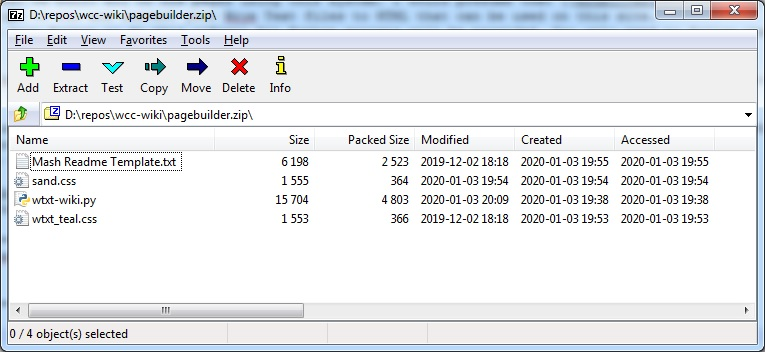
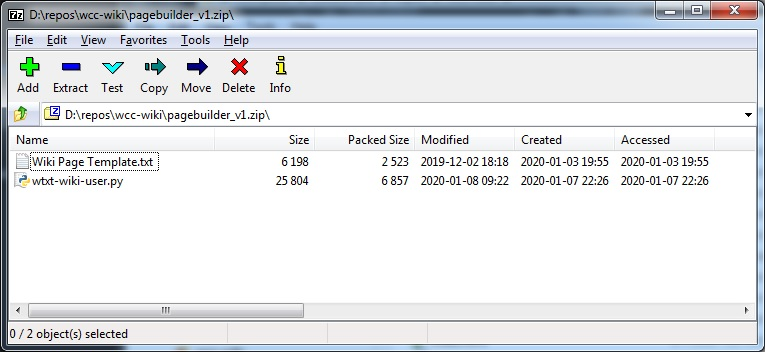
Updated section ten to clarify more

diff --git a/10-contribute.html b/10-contribute.html
@@ -23,7 +23,7 @@ title: Contributing
         </ul>
     </div>
 </div>
-<section>
+<div>
 <h2 class="header2" id="Intent">Intent:</h2>
 <p class="list-1">&bull;&nbsp; Do you have Wrye Bash related material that you would like to submit to this site? Are HTML and css style sheets over your head? The files and options provided will allow you to edit a simple text file that I will convert into content for the Wiki.</p>
 <p class=empty>&nbsp;</p>
@@ -49,6 +49,7 @@ title: Contributing
 <p class="list-2">&bull;&nbsp; <a href="#TableofContents">Table of Contents</a></p>
 <p class="list-2">&bull;&nbsp; <a href="#Bullets">Bullets</a></p>
 <p class="list-2">&bull;&nbsp; <a href="#Styles">Styles</a></p>
+<p class="list-2">&bull;&nbsp; <a href="#HeaderRule">Header Rule</a></p>
 <p class="list-2">&bull;&nbsp; <a href="#Links">Links</a></p>
 <p class="list-2">&bull;&nbsp; <a href="#TextColors">Text Colors</a></p>
 <p class="list-2">&bull;&nbsp; <a href="#LinkColors">Link Colors</a></p>
@@ -74,22 +75,22 @@ title: Contributing
 <p class="list-1">&bull;&nbsp; <a  href="pagebuilder_v1.zip">pagebuilder_v1 Download Link.zip</a></p>
 <p class=empty>&nbsp;</p>
 <h2 id="ExampleTemplate">Example Template</h2>
-<p>As part of the pagebuilder archive you have <code>Mash Readme Template.txt</code>. This will be the file you will modify as desired for the wiki content you wish to present. I will convert it into usable HTML after you are done and you may update the content and submit the changes.</p>
+<p>As part of the pagebuilder archive you have <code>Wiki Page Template.txt</code>. This will be the file you will modify as desired for the wiki content you wish to present. I will convert it into usable HTML after you are done and you may update the content and submit the changes.</p>
 <p class=empty>&nbsp;</p>
 <h2 class="header2" id="Syntax">Syntax</h2>
 <h3 class="header3" id="YourPagesTitle">Your Pages Title</h3>
 <p class=empty>&nbsp;</p>
-<p>Your page title will become the file line on the page and will be assigned as the first header. To indicate this text use the following Wrye Tag.</p>
-When you add <code>{% raw %}{{PAGETITLE="Your Page Title"}}{% endraw %}</code> with opening and ending double curly brackets. The text in quotes will become the title of your page as shown below.
+<p>Your page title will become the first line on the page and will be assigned as the first header. To indicate this text use the following Wrye Tag.</p>
+Add <code>{% raw %}{{PAGETITLE="Your Page Title"}}{% endraw %}</code> with opening and ending double curly brackets. The text in quotes will become the title of your page as shown below.
 <p class=empty>&nbsp;</p>
 <h1 class="header1" id="YourPageTitle">Your Page Title</h1>
 <p class=empty>&nbsp;</p>
 <hr>
 <h3 class="header3" id="HeadingStyle1">Heading Style 1</h3>
 <p class=empty>&nbsp;</p>
-<p class="list-1">&bull;&nbsp; There are 4 defined headings with different sizes of text and backgrounds.</p>
-<p class="list-1">&bull;&nbsp; The level of heading is determined by number of leading '='s. Trailing equal signs are ignored.</p>
-<p class="list-1">&bull;&nbsp; These heading will have some shade of grey bar that extends the width of the page.</p>
+<p class="list-1">&bull;&nbsp; There are 4 levels of headings defined with different sizes of text and backgrounds.</p>
+<p class="list-1">&bull;&nbsp; The level of the heading is determined by number of leading '='s. Trailing equal signs are ignored.</p>
+<p class="list-1">&bull;&nbsp; These headings will have some shade of grey bar that extends the width of the page.</p>
 <p class=empty>&nbsp;</p>
 <h1 class="header1" id="Heading1">Heading 1</h1>
 <h2 class="header2" id="Heading2">Heading 2</h2>
@@ -99,7 +100,7 @@ When you add <code>{% raw %}{{PAGETITLE="Your Page Title"}}{% endraw %}</code> w
 <hr>
 <h3 class="header3" id="HeadingStyle2">Heading Style 2</h3>
 <p class=empty>&nbsp;</p>
-<p class="list-1">&bull;&nbsp; Like the previous heading the amount of leading '#'s changes the size of the heading.</p>
+<p class="list-1">&bull;&nbsp; Like the previous heading the amount of leading '#'s determines the level of the heading.</p>
 <p class="list-1">&bull;&nbsp; These headings will not have a bar as a background and will have green text</p>
 <p class=empty>&nbsp;</p>
 <h1 id="Heading11">Heading 1</h1>
@@ -109,9 +110,9 @@ When you add <code>{% raw %}{{PAGETITLE="Your Page Title"}}{% endraw %}</code> w
 <p class=empty>&nbsp;</p>
 <h3 class="header3" id="TableofContents">Table of Contents</h3>
 <p class=empty>&nbsp;</p>
-<p>A table of contents is automatically generated from the headers in the document. It is best to place the tag after a header with the Contents name. The number indicates which header level will be used.</p>
+<p>A table of contents is automatically generated from the headers in the document. It is best to place the first where you want the table of contents to be, and after a header named Contents. The number indicates which header level will be used.</p>
 <p class=empty>&nbsp;</p>
-<p>The syntax is as follows: {% raw %}<code>{{CONTENTS=2}}</code>{% endraw %} or {% raw %}<code>{{CONTENTS=0}}</code>{% endraw %} to pause using headers in the table of contents.</p>
+<p>The syntax is as follows: <code>{% raw %}{{CONTENTS=2}}{% endraw %}</code> or <code>{% raw %}{{CONTENTS=0}}{% endraw %}</code> to pause using headers in the table of contents.</p>
 <p class=empty>&nbsp;</p>
 <p>You can also disable using headers in the table of contents by using a value of <code>0</code>. The headers will not be recorded until there is another contents tag with a value greater thean 0.</p>
 <p class=empty>&nbsp;</p>
@@ -119,25 +120,28 @@ When you add <code>{% raw %}{{PAGETITLE="Your Page Title"}}{% endraw %}</code> w
 <p class=empty>&nbsp;</p>
 <hr>
 <h3 class="header3" id="Bullets">Bullets</h3>
-<p class="list-1">&bull;&nbsp; Bullets1</p>
-  <p class="list-2">&bull;&nbsp; Bullets 2</p>
-    <p class="list-3">&bull;&nbsp; Bullets 3</p>
-      <p class="list-4">&bull;&nbsp; Bullets 4</p>
-<p class="list-1">+&nbsp; Alternate bullet char</p>
+<p class="list-1">&bull;&nbsp; Bullets1 - an asterisk <code>*</code> and a space would precede the text</p>
+  <p class="list-2">&bull;&nbsp; Bullets 2 - an asterisk <code>*</code> and two spaces would precede the text</p>
+    <p class="list-3">&bull;&nbsp; Bullets 3 - an asterisk <code>*</code> and four spaces would precede the text</p>
+      <p class="list-4">&bull;&nbsp; Bullets 4 - an asterisk <code>*</code> and six spaces would precede the text</p>
+<p class="list-1">+&nbsp; Alternate bullet char - a plus and a space <code>+ </code> would precede the text</p>
 <p class="list-1">o&nbsp; Alternate bullet char</p>
-<p class="list-1">&nbsp;&nbsp; For an invisible bullet char you would use a period '.' at the beginning of the line.</p>
+<p class="list-1">&nbsp;&nbsp; For an invisible bullet char you would use a period <code>.</code> at the beginning of the line.</p>
 <p class=empty>&nbsp;</p>
 <hr>
 <h3 class="header3" id="Styles">Styles</h3>
-<p class="list-1">&bull;&nbsp; <I>Italic</I></p>
-<p class="list-1">&bull;&nbsp; <B>Bold</B></p>
-<p class="list-1">&bull;&nbsp; <B><I>BoldItalic</I></B></p>
+<p class="list-1">&bull;&nbsp; <I>Italic</I> - You would surround the text using two tilde <code>~</code> symbols</p>
+<p class="list-1">&bull;&nbsp; <B>Bold</B> - You would surround the text using two underscore <code>_</code> symbols</p>
+<p class="list-1">&bull;&nbsp; <B><I>BoldItalic</I></B> - You would surround the text using two asterisk <code>*</code> symbols</p>
 <p class=empty>&nbsp;</p>
 <hr>
+<h3 class="header3" id="HeaderRule">Header Rule</h3>
+<p>You can add a visible divider to seperate information with the traditional HTML hr tag surrounded by <code><></code> symbols</p>
+<hr>
 <h3 class="header3" id="Links">Links</h3>
-<p>The link syntax can not be shown very well because it will be translated into a link. For that I will use only one brace. <font class="orange">NOTE:</font> you will need two braces for a valid link.</p>
+<p>The link syntax can not be shown very well because it will be translated into a link. For this reason I will use only one brace. <font class="orange">NOTE:</font> you will need two braces for a valid link.</p>
 <p class=empty>&nbsp;</p>
-<p>Below there is an example for an Internal link. What that means is a link to another part of the document. For example you might want to link to how to install python. <a  href="#PythonInstallation">Python Installation</a></p>
+<p>Below there is an example for an Internal link. An internal link is used to navagate to another section of the document. For example you might want to link to how to install python. <a  href="#PythonInstallation">Python Installation</a></p>
 <p class=empty>&nbsp;</p>
 <font class="yellow">NOTE:</font> Wrye Text now recognizes duplicate header names such as "Contents" and "Contents". If you must duplicate a header name for clarity then you will need to examine the HTML and look for the ID produced by the Python code for the HTML.
 <p class=empty>&nbsp;</p>
@@ -146,12 +150,14 @@ When you add <code>{% raw %}{{PAGETITLE="Your Page Title"}}{% endraw %}</code> w
 <p class="list-1">&bull;&nbsp; External Link: [http://wrye.ufrealms.net] or [http://wrye.ufrealms.net | Wrye Musings]</p>
 <p class="list-1">&bull;&nbsp; Internal Link: [#PythonInstallation | Python Installation] or [#| Reuse and Credits].</p>
   <p class="list-2">&bull;&nbsp; All section headers can be linked to by compressing the text of the header together (i.e., by stripping out all non alphabetical characters).</p>
-  <p class="list-2">&bull;&nbsp; If you use the second form the link is automatically generated from the text of the link.</p>
+  <p class="list-2">&bull;&nbsp; If you use the second method, the link is automatically generated from the text of the link.</p>
+  <p class="list-2">&bull;&nbsp; <font class="green">NOTE:</font> Any duplication of a header will cause the python script to append a number after the link identifier. This numeric identifier will not be sequential. Therefore you can not guess that it will be "Contents1" and "Contents2". You will need to examine the output of the HTML file.</p>
   <p class=empty>&nbsp;</p>
 <hr>
 <h3 class="header3" id="TextColors">Text Colors</h3>
   <p class=empty>&nbsp;</p>
-<p>There are 16 dark themed colors for you to choose from so they are not (at least to the best of my abilities) as blinding as their regular values. To use these colors you need to use and outdated <code><font class"color"></font></code> tag. The class should be the name of the color.</p>
+<p>There are 16 dark themed colors (17 if you count black) for you to choose from so they are not (at least to the best of my abilities) as blinding as their regular values. To use these colors you need to use the outdated HTML tag <code>font</code>. The tag needs to have the proper open and closing tag, and the name of the color will be assigned to the word class within quotes.</p>
+<img src="img/font_tag.jpg" alt="font_tag.jpg">
   <p class=empty>&nbsp;</p>
 <p class="list-1">&bull;&nbsp; <font class="black">This is black</font></p>
 <p class="list-1">&bull;&nbsp; <font class="blue">This is blue</font></p>
@@ -171,16 +177,16 @@ When you add <code>{% raw %}{{PAGETITLE="Your Page Title"}}{% endraw %}</code> w
 <p class="list-1">&bull;&nbsp; <font class="white">This is white</font></p>
 <p class="list-1">&bull;&nbsp; <font class="yellow">This is yellow</font></p>
 <p class=empty>&nbsp;</p>
-<p>Obviously some colors will not look against this dark background but would look much better against a lighter background.</p>
+<p>Obviously some colors will not contrast that well against this dark background but would look much better against a lighter background.</p>
 <p class=empty>&nbsp;</p>
 <hr>
 <h3 class="header3" id="LinkColors">Link Colors</h3>
 <p class=empty>&nbsp;</p>
-<p>You may be contributing a guide that has people download a mod and you wish to color code them to indicate a special purpose. Maybe the file needs to be converted from Skyrim to Skyrim SE or maybe the mod has special install procedures that make it complicated for new users. Whatever the case may be there is a tag for that you can use to indicate the link color.</p>
+<p>You may be contributing a guide that has people download a mod and you wish to color code them to indicate a special purpose. Maybe the file needs to be converted from Skyrim to Skyrim SE or maybe the mod has special install procedures that make it complicated for new users. Whatever the case may be there is a tag that you may use to indicate the link color.</p>
 <p class=empty>&nbsp;</p>
-{% raw %}<code>{{a.green}}</code>{% endraw %} in the link's name field will be used to color the link green. <font class="pink">NOTE:</font> As shown below the tag must be with the name or it will be ignored.
+<code>{% raw %}{{a.green}}{% endraw %}</code> in the link's name field will be used to color the link green. <font class="pink">NOTE:</font> As shown below the tag must be with the link name or it will be ignored.
 <p class=empty>&nbsp;</p>
-{% raw %}<code>[https://github.com/Sharlikran | The Link Text Will Be Green{{a:green}}]</code>{% endraw %} <a class="orange" href="https://sharlikran.github.io/">This Link Text is Orange</a>
+<code>{% raw %}[https://github.com/Sharlikran | The Link Text Will Be Green{{a:green}}] <a class="orange" href="https://sharlikran.github.io/">This Link Text is Orange</a>{% endraw %}</code>
 <p class=empty>&nbsp;</p>
 <font class="yellow">Reminder:</font> Only one brace is used so you can see the syntax. The link in your text document requires two braces at the begining and the end of the link.
 <p class=empty>&nbsp;</p>
@@ -196,7 +202,7 @@ short counter
 end
 </pre>
 <p class=empty>&nbsp;</p>
-<p>Refrain from using too many HTML tags if you know the language well. If special styining is needed I can look into a way to privide additional options. However, I would like to keep this custom markdown language as simple as possible so it doesn't become another type of HTML.</p>
+<p>Refrain from using too many HTML tags if you know the language well. If special styling is needed I can look into a way to privide additional options. However, I would like to keep this custom markdown language as simple as possible so it doesn't become another type of HTML.</p>
 <p class=empty>&nbsp;</p>
 <hr>
 <h3 class="header3" id="ContinuedText">Continued Text</h3>
@@ -240,7 +246,6 @@ html.
 <p class="list-1">&bull;&nbsp; Right click in an empty space and, choose Paste.</p>
 <img class="thumbnail-large" src="img/choosepaste.jpg" alt="choosepaste.jpg">
 <h2 class="header2" id="Versions">Versions</h2>
-<p><I>Version notes go here.</I></p>
 <p class=empty>&nbsp;</p>
 <h3 class="header3" id="100Update172020">1.00 Update [1/7/2020]</h3>
 <p class="list-1">&bull;&nbsp; released pagebuilder_v1.zip version 1</p>
@@ -258,6 +263,3 @@ html.
 <h3 class="header3" id="Credits">Credits</h3>
 <p class="list-1">&bull;&nbsp; <B><I>Wrye</I></B>, for creating this markdown language</p>
 </div>
-</section>
-</BODY>
-</HTML>
